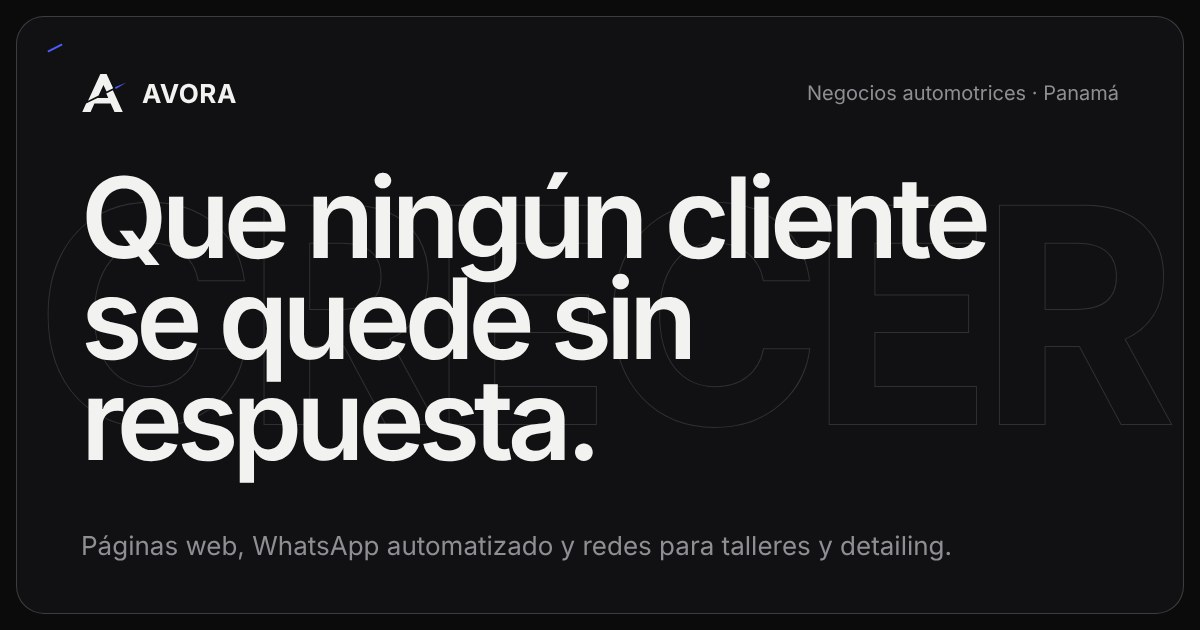
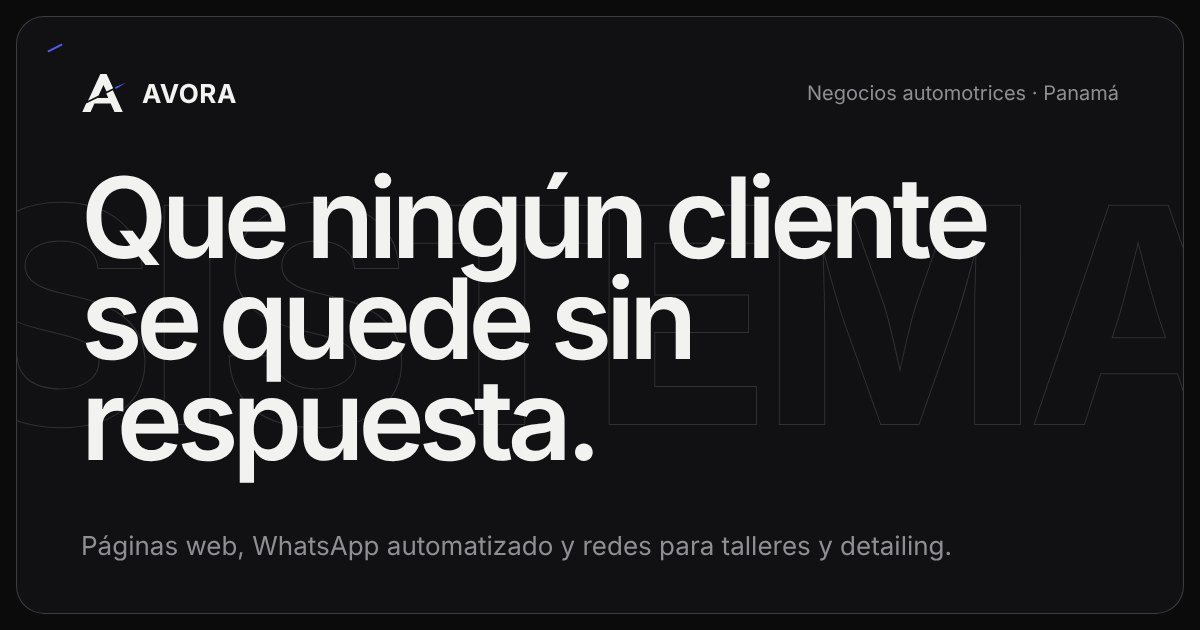
Palabra de fondo SISTEMA / SYSTEM, más chica para que quepa; imagen para compartir actualizada
Claude-Session: https://claude.ai/code/session_01QMhQiMNasz52DndtAR6FAL

diff --git a/css/styles.css b/css/styles.css
@@ -19,7 +19,7 @@
   --sobre-texto: #0b0b0c;          /* lo que va encima de --texto: botones y píldoras se invierten solos */
   --linea-activa: rgba(242, 242, 240, .45);   /* borde de la flecha con hover */
   --texto-hover: #fff;             /* el título de un servicio "se aclara apenas" con hover */
-  --palabra-fondo: rgba(242, 242, 240, .14);   /* contorno de CRECER, gigante detrás del título de la portada */
+  --palabra-fondo: rgba(242, 242, 240, .14);   /* contorno de SISTEMA, gigante detrás del título de la portada */
 
   /* Dos fuentes: Space Grotesk (500, 600, 700) en títulos e Inter (400, 500, 600) en textos */
   --fuente-titulos: "Space Grotesk", "Helvetica Neue", system-ui, sans-serif;
@@ -444,7 +444,7 @@ html[lang="en"] .idioma__op[data-idioma="en"] { color: var(--texto); }
   width: 1px;
   height: 40px;
 }
-/* CRECER gigante y solo en contorno, centrada detrás del título. Se centra con flex y
+/* SISTEMA gigante y solo en contorno, centrada detrás del título. Se centra con flex y
    no con transform: el transform del exterior lo usa main.js para moverla más lento que
    el scroll en computadora (con Lenis). Si no cabe, la recorta el overflow del panel. */
 .hero__titular { position: relative; }
@@ -455,7 +455,7 @@ html[lang="en"] .idioma__op[data-idioma="en"] { color: var(--texto); }
   display: flex;
   align-items: center;
   justify-content: center;
-  font-size: clamp(88px, 25vw, 360px);
+  font-size: clamp(76px, 21vw, 300px);
   font-weight: 700;                /* el peso más alto de Space Grotesk */
   line-height: 1;
   letter-spacing: -.04em;

diff --git a/index.html b/index.html
@@ -79,7 +79,7 @@
 
   <main id="contenido">
 
-    <!-- 1 · PORTADA. Secuencia al cargar: panel y borde → palabra CRECER → título → texto y botones -->
+    <!-- 1 · PORTADA. Secuencia al cargar: panel y borde → palabra SISTEMA → título → texto y botones -->
     <section class="panel hero" id="inicio" aria-labelledby="hero-title" data-reveal="panel">
       <span class="hero__sentinel" aria-hidden="true"></span>
       <span class="panel__marca" aria-hidden="true"></span>
@@ -91,7 +91,7 @@
         </p>
         <div class="hero__titular">
           <!-- Palabra de fondo, centrada detrás del título: el exterior se mueve con el scroll (main.js), el interior aparece -->
-          <span class="hero__palabra" aria-hidden="true"><span class="hero__palabra-texto" data-reveal data-i18n="hero.palabra" style="--d:100ms">CRECER</span></span>
+          <span class="hero__palabra" aria-hidden="true"><span class="hero__palabra-texto" data-reveal data-i18n="hero.palabra" style="--d:100ms">SISTEMA</span></span>
           <!-- En celular son 4 líneas; en computadora las dos primeras (.linea--pareja) comparten fila -->
           <h1 class="hero__title" id="hero-title" data-reveal="lineas" style="--d:250ms">
             <span class="linea linea--pareja"><span style="--n:0" data-i18n="hero.t1">Que ningún</span></span>

diff --git a/_herramientas/og-image.html b/_herramientas/og-image.html
@@ -36,7 +36,7 @@
   .marca svg { width: 47px; height: 40px; }
   .marca b { font-size: 26px; font-weight: 700; letter-spacing: .02em; }
   .lugar { position: absolute; top: 64px; right: 64px; font-size: 20px; color: #8e8e93; }
-  /* CRECER en contorno, detrás del título (igual que en la portada) */
+  /* SISTEMA en contorno, detrás del título (igual que en la portada) */
   .palabra {
     position: absolute;
     inset: 0;
@@ -69,7 +69,7 @@
 <body>
   <div class="panel">
     <span class="barrita"></span>
-    <div class="palabra">CRECER</div>
+    <div class="palabra">SISTEMA</div>
     <div class="marca">
       <svg viewBox="14 24 180 154">
         <path fill="#f2f2f0" fill-rule="evenodd" d="M112.0 28.0 L88.0 28.0 L40.6 131.3 L81.2 111.1 L100.0 70.0 L111.8 95.7 L137.2 83.0 Z M18.4 173.8 L50.4 173.8 L65.1 141.8 L127.7 141.8 L142.4 173.8 L174.4 173.8 L136.1 90.3 L110.7 103.0 L118.4 119.8 L77.1 119.8 L33.1 141.8 Z"/>

diff --git a/js/main.js b/js/main.js
@@ -100,7 +100,7 @@
   /* ---------- Scroll con inercia y profundidad ----------
      Lenis, suave y ligero, SOLO en computadora con mouse: en celular, en pantallas
      táctiles y con movimiento reducido ni siquiera se descarga. Cuando existe, también
-     mueve la palabra CRECER de la portada más lento que el scroll (efecto de profundidad),
+     mueve la palabra SISTEMA de la portada más lento que el scroll (efecto de profundidad),
      solo mientras la portada está en pantalla. En celular la palabra queda fija. */
   if (conMouse && !tactil && !reduceMotion) {
     const script = document.createElement('script');

diff --git a/js/idioma.js b/js/idioma.js
@@ -30,7 +30,7 @@
 
     'hero.meta1': 'Automotive businesses · Panama',
     'hero.meta2': 'Garages, detailing and body shops.',
-    'hero.palabra': 'GROW',
+    'hero.palabra': 'SYSTEM',
     'hero.t1': 'No customer',
     'hero.t2': 'left',
     'hero.t3': 'without',

diff --git a/CLAUDE.md b/CLAUDE.md
@@ -30,13 +30,13 @@ Dos temas que solo cambian variables. El oscuro vive en `:root` de `css/styles.c
 | Lo que va encima de `--texto` (botones, píldoras) | `--sobre-texto` | `#0B0B0C` | `#F2F2F0` |
 | Borde de la flecha con hover | `--linea-activa` | blanco 45 % | negro 45 % |
 | Título de servicio con hover | `--texto-hover` | `#FFFFFF` | `#2A2A2F` |
-| Contorno de la palabra CRECER (portada) | `--palabra-fondo` | `rgba(242,242,240,.14)` | — |
+| Contorno de la palabra SISTEMA (portada) | `--palabra-fondo` | `rgba(242,242,240,.14)` | — |
 
 - **El azul `#4D5BFF` (`--azul`)** es igual en los dos temas y solo se usa en la estela del logo y la barrita de cada panel.
 - **Botones y píldoras se invierten solos:** usan `--texto` de fondo y `--sobre-texto` encima, nunca colores fijos ni `--fondo`. En oscuro son claros con texto negro; en claro, negros con texto claro.
 - **Tarjeta negra de Planes (`.plan--oscuro`):** dentro de la franja clara, vuelve a tokens oscuros: fondo `#0B0B0C`, secundario `#A3A3A8` (7.8:1) y líneas `rgba(242,242,240,.14)`.
 
-- **Tipografía:** dos fuentes de Google Fonts, con `display=swap` y solo los pesos que se usan. **Space Grotesk** (500, 600, 700) en títulos, precios, la palabra CRECER y el nombre de la marca: variable `--fuente-titulos`, aplicada a `h1, h2, h3`. **Inter** (400, 500, 600) en todo lo demás: variable `--fuente-textos`. Space Grotesk no tiene peso 800. Si se usa un peso nuevo, hay que agregarlo al `<link>` de `index.html`. Títulos grandes en peso 600 con interletrado negativo: H1 −0.055em, títulos de sección −0.045em, cierre −0.05em.
+- **Tipografía:** dos fuentes de Google Fonts, con `display=swap` y solo los pesos que se usan. **Space Grotesk** (500, 600, 700) en títulos, precios, la palabra SISTEMA y el nombre de la marca: variable `--fuente-titulos`, aplicada a `h1, h2, h3`. **Inter** (400, 500, 600) en todo lo demás: variable `--fuente-textos`. Space Grotesk no tiene peso 800. Si se usa un peso nuevo, hay que agregarlo al `<link>` de `index.html`. Títulos grandes en peso 600 con interletrado negativo: H1 −0.055em, títulos de sección −0.045em, cierre −0.05em.
 - **El azul no se usa en nada más:** ni texto, ni botones, ni bordes.
 - **Prohibido:** diagonales decorativas, cortes inclinados (`clip-path` en ángulo), números entre paréntesis, fondos animados, colores fuera de esta tabla.
 - Contraste mínimo AA en todo el texto y en los dos temas; el más justo es `--texto-2` oscuro sobre `--superficie` (5.6:1).
@@ -54,7 +54,7 @@ Botón "ES | EN" en el header (`.idioma`): un solo botón que alterna. El españ
 
 - **Marcas en el HTML:** `data-i18n="clave"` (texto plano), `data-i18n-html="clave"` (las 3 frases con una parte resaltada en `<span class="claro">`), `data-i18n-aria="clave"` (`aria-label`) y `data-wa="tema"` (enlaces de WhatsApp).
 - **Regla:** todo texto nuevo de la página lleva su marca y su traducción en `EN`. Si falta la traducción, se muestra el español (nunca queda un hueco).
-- **Qué cambia el botón:** los textos, los `aria-label`, `<html lang>` (`es-PA` ↔ `en`), `document.title`, el mensaje prellenado de cada enlace `wa.me` (objeto `WHATSAPP_EN`; el número se toma del enlace que ya existe, no se repite) y la palabra de fondo (CRECER ↔ GROW). Al terminar dispara el evento `avora:idioma`, que `js/avo.js` escucha para traducir el chat.
+- **Qué cambia el botón:** los textos, los `aria-label`, `<html lang>` (`es-PA` ↔ `en`), `document.title`, el mensaje prellenado de cada enlace `wa.me` (objeto `WHATSAPP_EN`; el número se toma del enlace que ya existe, no se repite) y la palabra de fondo (SISTEMA ↔ SYSTEM). Al terminar dispara el evento `avora:idioma`, que `js/avo.js` escucha para traducir el chat.
 - **Qué no cambia:** `meta description`, Open Graph y JSON-LD se quedan en español, porque los leen Google y las redes, que no pulsan el botón. Para aparecer en Google en inglés haría falta una página aparte.
 - **Recordar el idioma:** `localStorage` (clave `avora-idioma`), siempre dentro de `try/catch`. El script del `<head>` pone el `lang` guardado antes de dibujar, y `idioma.js` se carga antes que `main.js`, así el texto cambia antes de las animaciones de entrada (sin parpadeo).
 - **Títulos cortados a mano:** el inglés usa las mismas máscaras: "We build / systems / that answer / for you." y "Let's talk / business." Si cambia un título, hay que medirlo en los dos idiomas.
@@ -110,7 +110,7 @@ No hay paso de compilación. Sirve la carpeta con un servidor estático (por eje
 
 **Título de la portada.** `.hero__title`: `clamp(40px, 14vw, 96px)` en celular y `clamp(88px, 10.2vw, 136px)` desde 900px (medidos con Space Grotesk: "que atienden" ocupa 5.72em y "Creamos sistemas", 7.85em). Son 4 máscaras: "Creamos" / "sistemas" / "que atienden" / "por ti.". En celular son 4 líneas; en computadora las dos primeras (`.linea--pareja`, `inline-block`) comparten fila. Si el texto cambia, hay que volver a medir que ninguna línea se salga (la más larga es "que atienden" en celular y "Creamos sistemas" en computadora).
 
-**Palabra CRECER de fondo (portada).** `.hero__palabra`: Space Grotesk 700 a `clamp(88px, 25vw, 360px)`, **solo en contorno** y centrada detrás del título (vive dentro de `.hero__titular`, el envoltorio del `h1`, con `z-index: -1`). Lleva `aria-hidden="true"` y no se puede seleccionar. El contorno es un trazo de 2px en `--palabra-fondo` con `paint-order: stroke fill` y el relleno en `--panel`: el relleno tapa la mitad interior del trazo (se ve 1px) y los cruces que la fuente variable dibuja dentro de las letras. Se centra con flexbox, **no con `transform`**, porque el `transform` lo usa `main.js` para la profundidad. Son dos elementos: el exterior se mueve con el scroll y el interior (`.hero__palabra-texto`) hace la aparición. Si no cabe, la recorta el `overflow: hidden` del panel (nunca hay scroll horizontal).
+**Palabra SISTEMA de fondo (portada).** `.hero__palabra`: Space Grotesk 700 a `clamp(76px, 21vw, 300px)`, **solo en contorno** y centrada detrás del título (vive dentro de `.hero__titular`, el envoltorio del `h1`, con `z-index: -1`). Lleva `aria-hidden="true"` y no se puede seleccionar. El contorno es un trazo de 2px en `--palabra-fondo` con `paint-order: stroke fill` y el relleno en `--panel`: el relleno tapa la mitad interior del trazo (se ve 1px) y los cruces que la fuente variable dibuja dentro de las letras. Se centra con flexbox, **no con `transform`**, porque el `transform` lo usa `main.js` para la profundidad. Son dos elementos: el exterior se mueve con el scroll y el interior (`.hero__palabra-texto`) hace la aparición. Si no cabe, la recorta el `overflow: hidden` del panel (nunca hay scroll horizontal).
 
 ## Movimiento (calmado, editorial)
 
@@ -125,13 +125,13 @@ Tokens en `:root`: curva `--ease` = `cubic-bezier(.22, 1, .36, 1)`, `--t-hover` 
 
 Retrasos: `--d` es el retraso base y `--i` la posición en el escalonado de 120 ms. Las máscaras de `lineas` esconden el texto con `translateY(150%)`: con menos, las letras altas se asoman por el margen inferior de la máscara.
 
-**Coreografías (mismo lenguaje en todas).** Portada (al cargar): panel y borde → palabra CRECER (`--d:100ms`) → título línea por línea y la línea de arriba (`--d:250ms`) → línea divisoria, texto y botones (`--d:550ms`). Servicios: cada fila es un grupo, 150 ms entre filas; dentro, la línea se dibuja y siguen el título, el texto, "Incluye" y cada píldora. Proyectos: cada uno sube (el segundo, 150 ms después): etiquetas → nombre → resultado → testimonio → enlaces. Planes: las tarjetas suben con 150 ms de diferencia y el precio llega al final con su énfasis. Cierre: título línea por línea → los 3 pasos en cascada, con su línea → texto y botón.
+**Coreografías (mismo lenguaje en todas).** Portada (al cargar): panel y borde → palabra SISTEMA (`--d:100ms`) → título línea por línea y la línea de arriba (`--d:250ms`) → línea divisoria, texto y botones (`--d:550ms`). Servicios: cada fila es un grupo, 150 ms entre filas; dentro, la línea se dibuja y siguen el título, el texto, "Incluye" y cada píldora. Proyectos: cada uno sube (el segundo, 150 ms después): etiquetas → nombre → resultado → testimonio → enlaces. Planes: las tarjetas suben con 150 ms de diferencia y el precio llega al final con su énfasis. Cierre: título línea por línea → los 3 pasos en cascada, con su línea → texto y botón.
 
 **Bordes que se dibujan.** Con JS, el borde de CSS del panel queda transparente y `main.js` agrega `.panel__borde`: 4 tramos rectos que crecen con `scaleX`/`scaleY` y 4 esquinas de 27px que aparecen con `opacity`, en el orden del recorrido (empieza en la esquina de la barrita azul y sigue en el sentido del reloj). La curva `--ease` se aplica al contorno **completo**: `main.js` busca en qué momento de la curva la línea llega a cada pieza (búsqueda binaria sobre la bezier) y guarda `--ret` y `--dur` en cada una; se recalcula con `ResizeObserver`. Como la curva frena mucho al final, la línea recorre tres lados rápido y cierra despacio subiendo hacia la barrita. Para velocidad pareja, cambiar `tiempoDeAvance` por la identidad; para otra duración, `DURACION_BORDE`.
 
 **Hover de los botones principales (igual en los 5).** Sin efecto magnético (se quitó: hacía temblar los botones). Solo con mouse real (`hover: hover` y `pointer: fine`), en `--t-hover` (200 ms): el relleno `.btn__relleno` (capa que `main.js` agrega dentro de cada `.btn--primary`) recorre el botón con `scaleX` de izquierda a derecha y sale hacia la derecha, y la flecha del círculo se corre 3px. El botón en sí no se mueve. Al presionar o tocar: `scale(.97)`. Con movimiento reducido: el relleno no recorre, solo aparece su color con un fundido (`opacity`), y la flecha no se mueve. El color del relleno mezcla `--texto` y `--sobre-texto` (14:1 de contraste con el texto en los dos temas). El botón del chat de Avo (`.avo-cta`) no lleva relleno.
 
-**Profundidad de la palabra CRECER.** Solo cuando existe Lenis (computadora con mouse, sin movimiento reducido): `lenis.on('scroll')` mueve `.hero__palabra` con `translate3d(0, scroll × 0.25, 0)` mientras la portada está en pantalla. No se agrega ningún listener de scroll del navegador. En celular queda fija.
+**Profundidad de la palabra SISTEMA.** Solo cuando existe Lenis (computadora con mouse, sin movimiento reducido): `lenis.on('scroll')` mueve `.hero__palabra` con `translate3d(0, scroll × 0.25, 0)` mientras la portada está en pantalla. No se agrega ningún listener de scroll del navegador. En celular queda fija.
 
 **Cinta.** Los subnichos: "Talleres mecánicos · Detailing · Chapistería y pintura · Car wash · Lubricentros · Polarizado · Llanteras · A/C automotriz" (el "·" lo pone el CSS). Lineal y continua, con los bordes desvanecidos. La lista está 6 veces en el HTML (solo la primera la leen los lectores de pantalla): el recorrido avanza media pista, así que las copias van siempre en número par, y media pista (unos 3850px) tiene que llenar una pantalla ancha. Dura 110 s para ir a unos 35 px por segundo; si cambia el texto, se ajusta la duración para conservar esa velocidad. **Nunca se pausa**, ni con el mouse (decisión mía), salvo con movimiento reducido. Se mantiene la clase `.ribbon__band`, porque Avo la usa.
 
